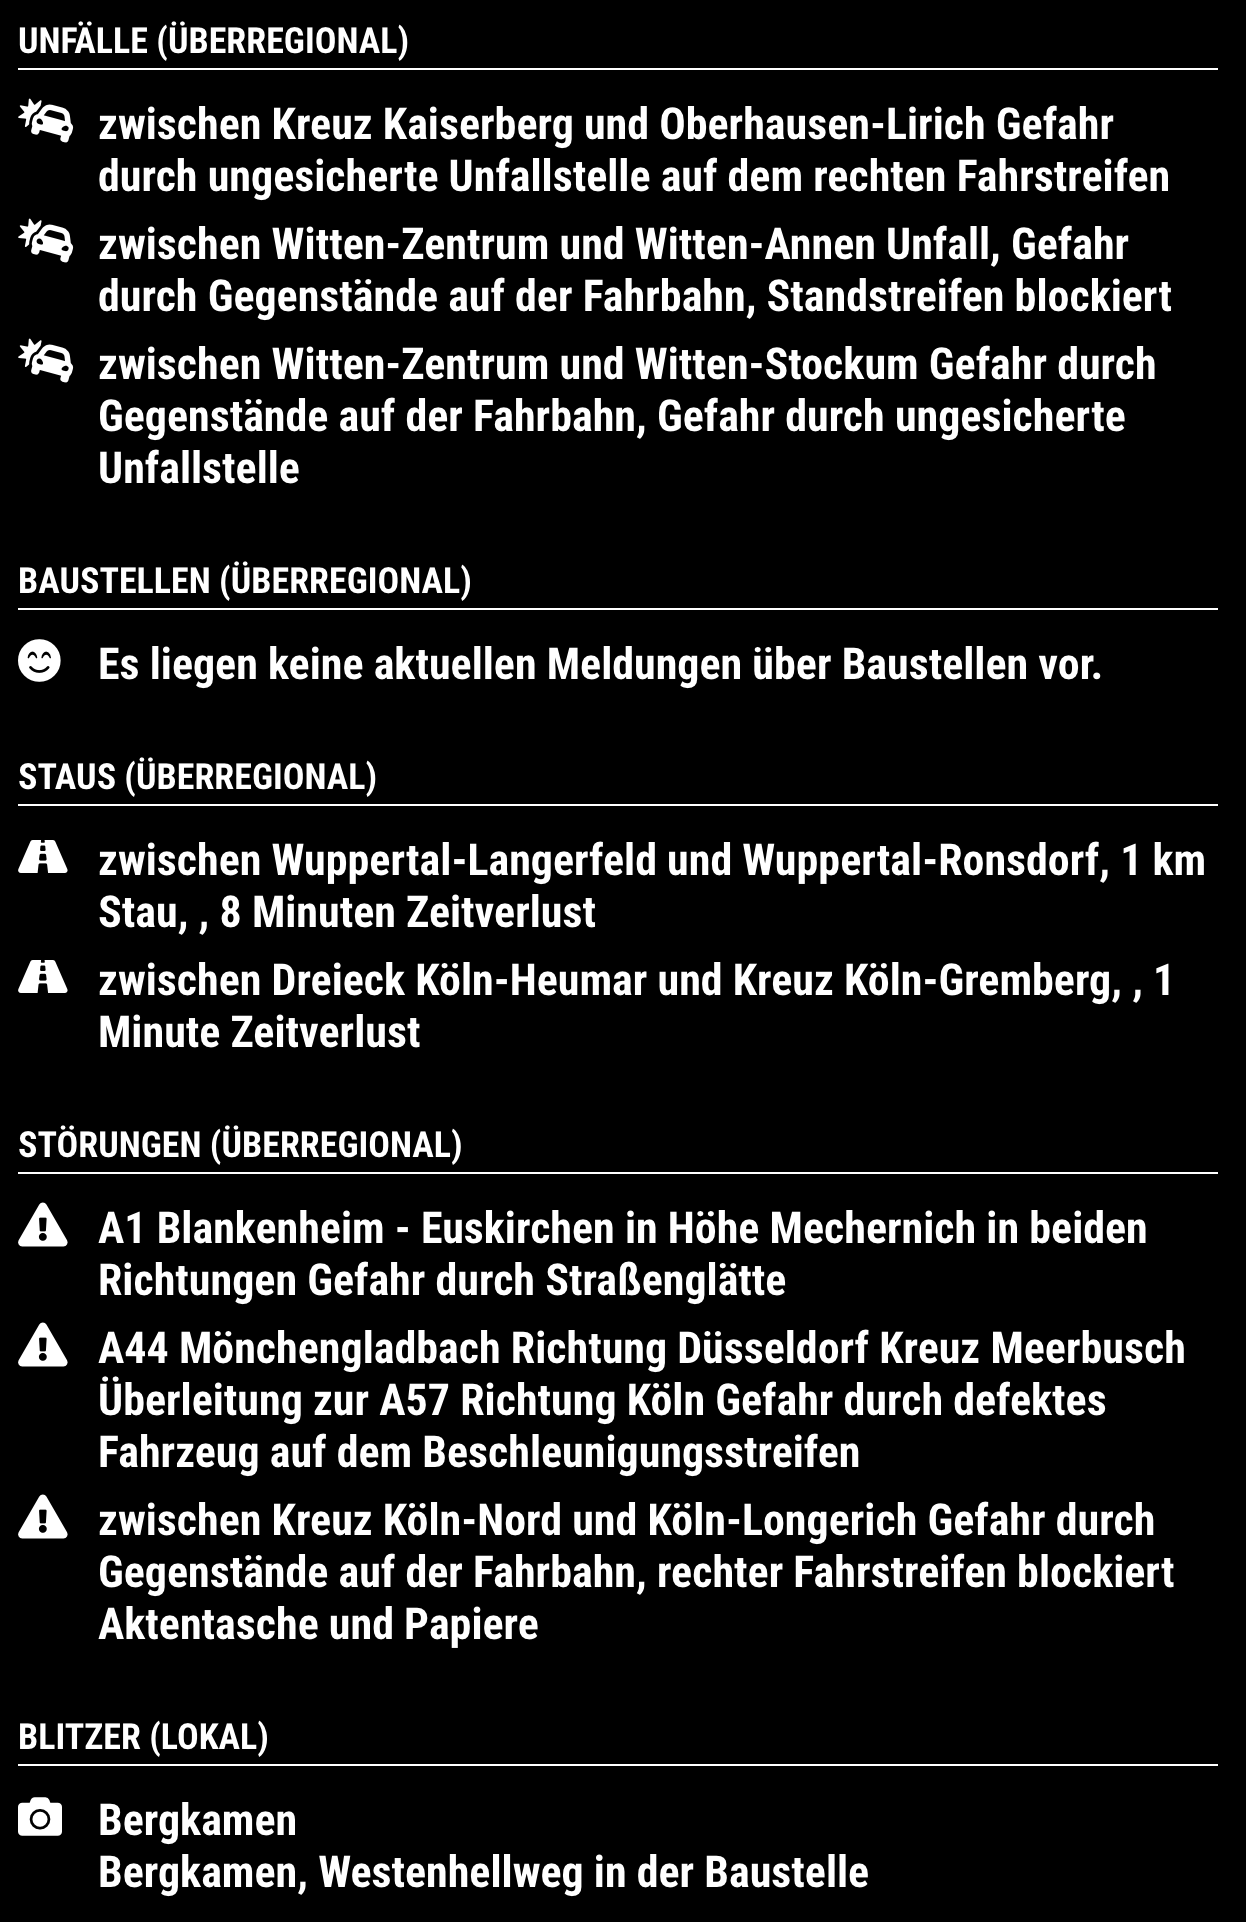
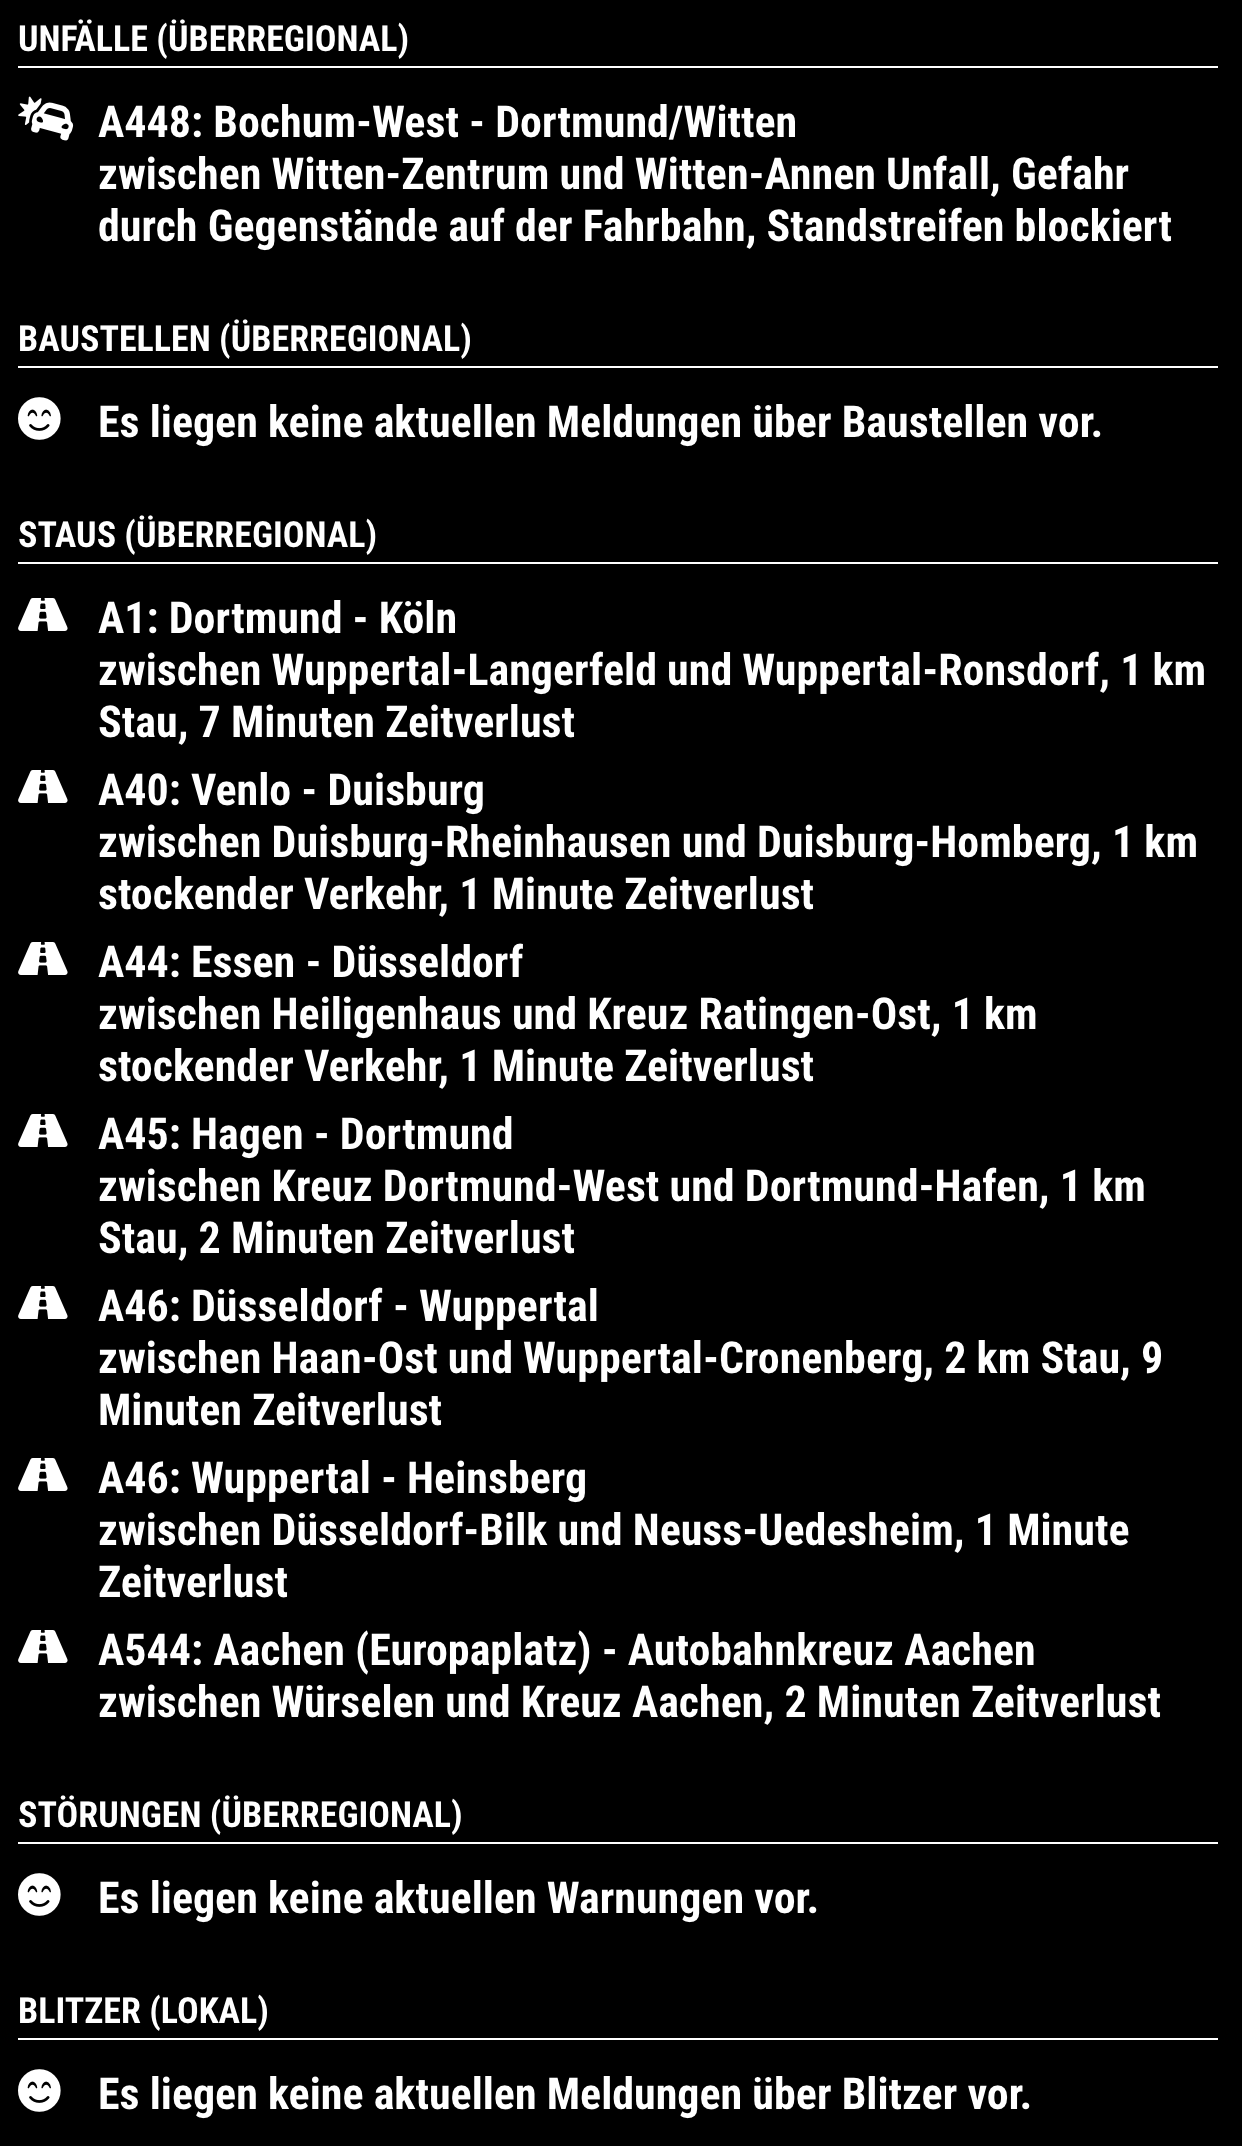
Sicherung

Changed region(s): [[0.0, 0.0, 0.9791, 0.999], [0.9179, 0.3122, 0.9791, 0.3434]]

diff --git a/MMM-AntenneUnnaTraffic.js b/MMM-AntenneUnnaTraffic.js
@@ -79,10 +79,25 @@ Module.register("MMM-AntenneUnnaTraffic", {
 		function pushToItems(icon, item, index) {
 			//console.log(item['message']);
 			//items.push('<i class="fas fa-car-crash"></i> ' + item['message']);
-			items.push({
-				'icon' : icon,
-				'data' : item['message']
-			});
+			var message = item['message'].replace(', ,',',');
+			if(item['autobahn'] === undefined) {
+				items.push({
+					'icon' : icon,
+					'data' : message
+				});
+			} else {
+				if(item['direction'] === undefined) {
+					items.push({
+						'icon' : icon,
+						'data' : item['autobahn'] + '<br />' + message
+					});
+				} else {
+					items.push({
+						'icon' : icon,
+						'data' : item['autobahn'] + ': ' + item['direction'] + '<br />' + message
+					});
+				}
+			}
 		}
 
 		if(this.config.arrayName === 'overregional.accident') {
